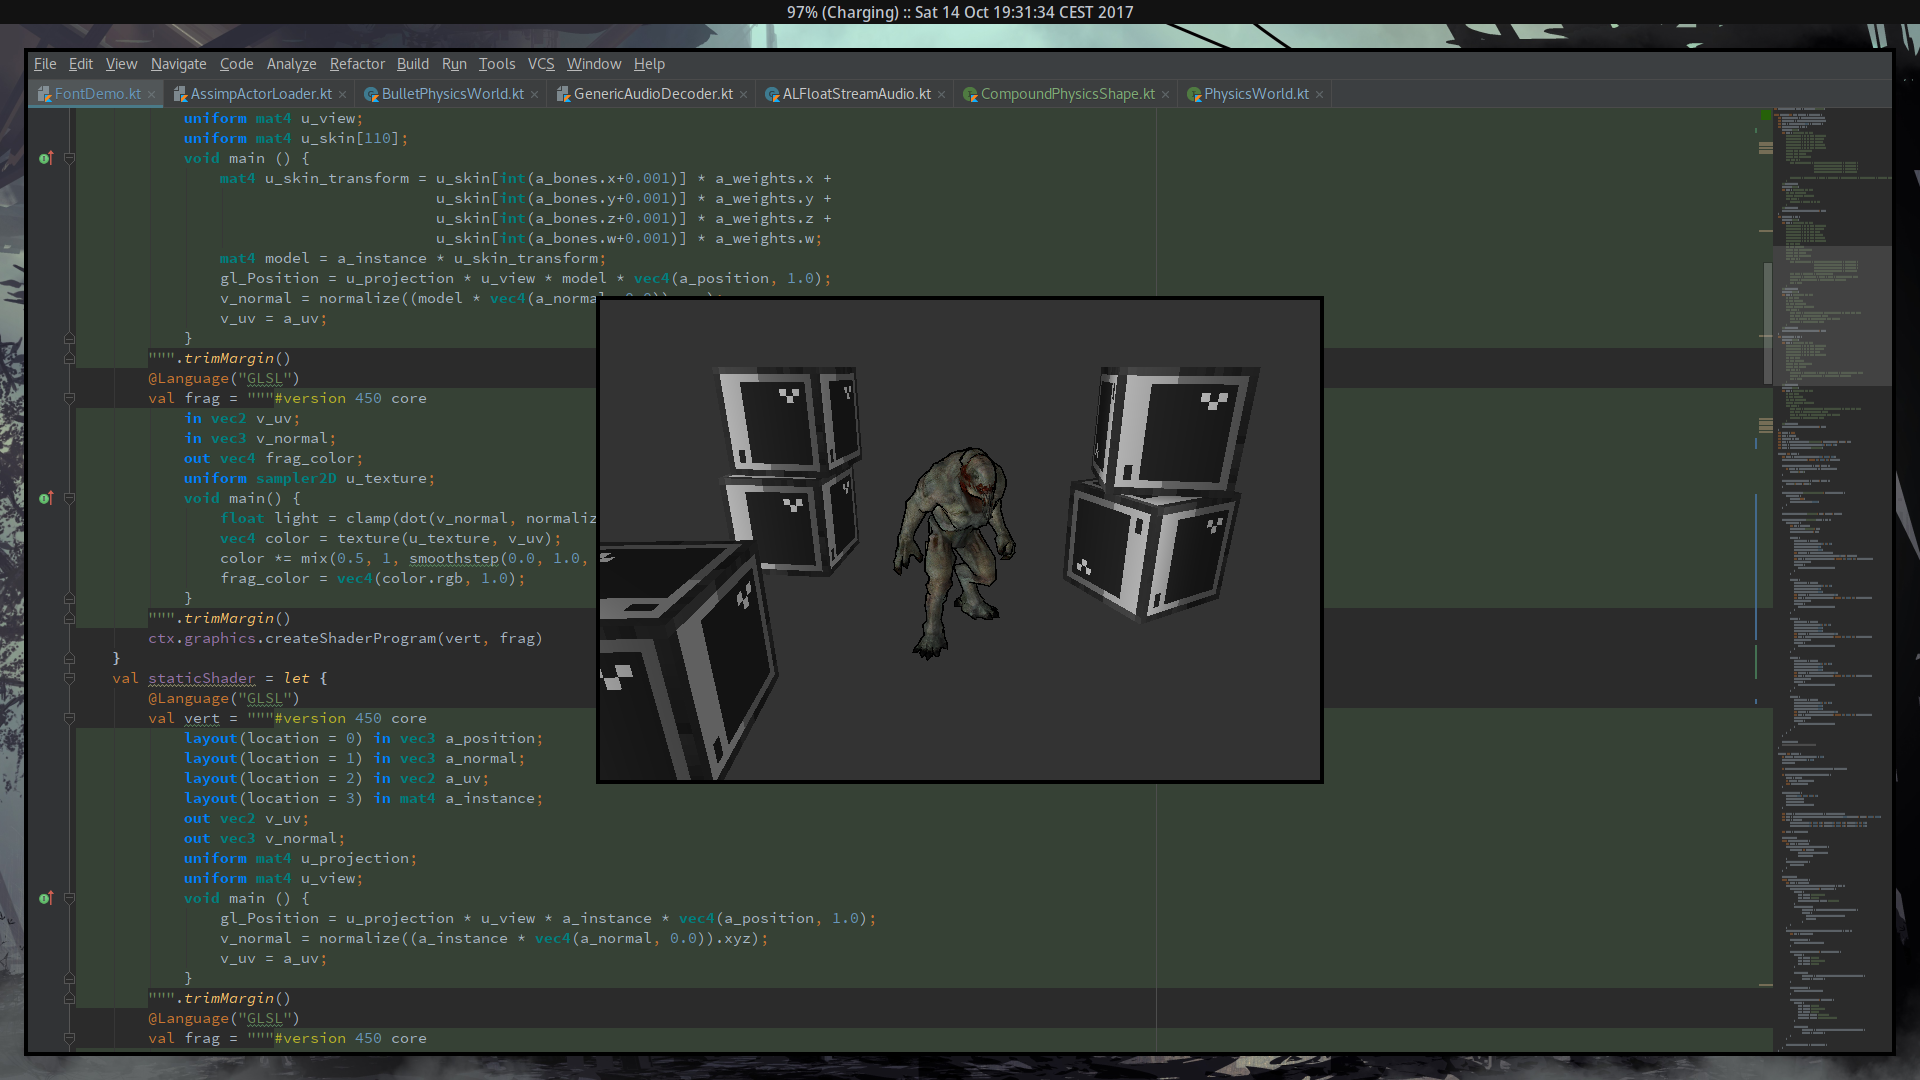
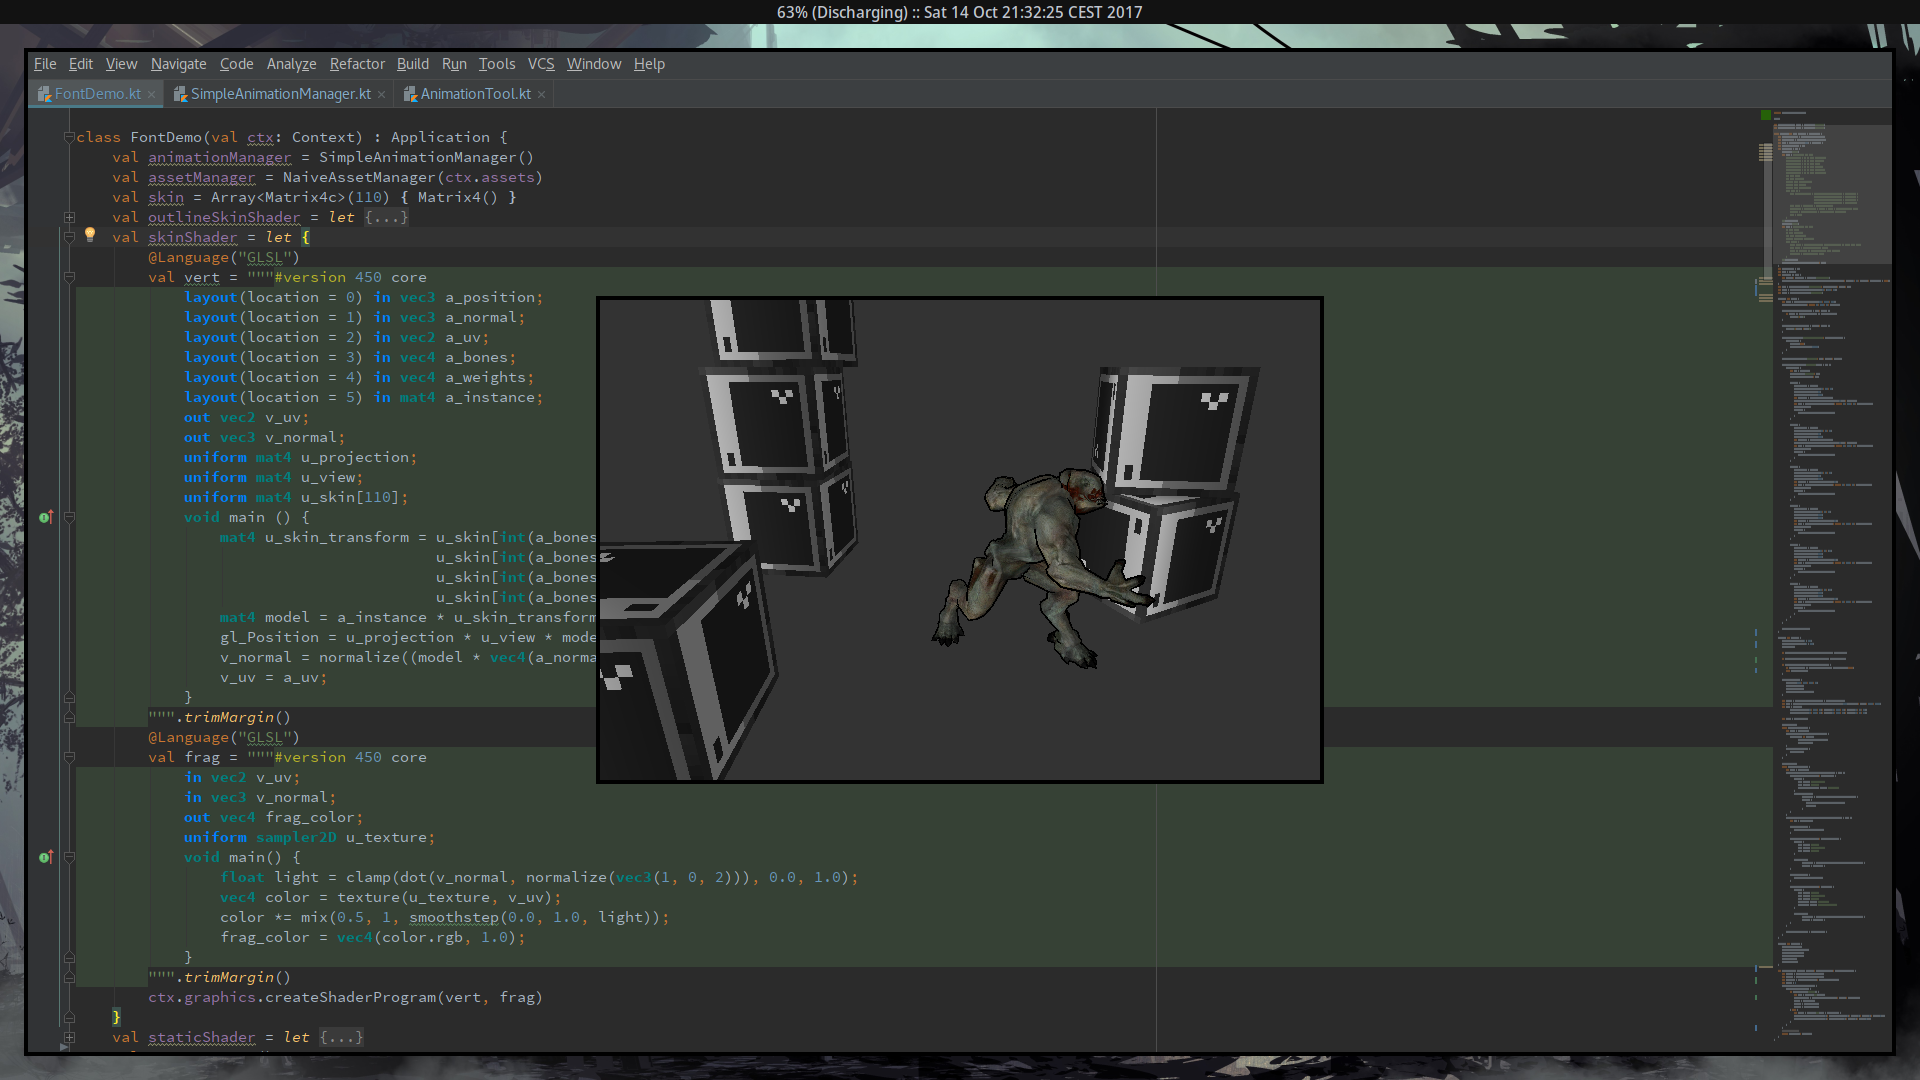
animation bug

diff --git a/modules/engine-game/src/main/kotlin/com/github/germangb/game/FontDemo.kt b/modules/engine-game/src/main/kotlin/com/github/germangb/game/FontDemo.kt
@@ -135,10 +135,10 @@ class FontDemo(val ctx: Context) : Application {
         """.trimMargin()
         ctx.graphics.createShaderProgram(vert, frag)
     }
-    var toggle = true
     val root = Actor()
     val animation by lazy {
-        animationManager.createAnimation(ActorAnimationController(root, 119f, 24, timeline("idle2.txt"), interpolate = true))
+        val (frames, timeline) = timeline("attack3.txt")
+        animationManager.createAnimation(ActorAnimationController(root, frames-1, 24, timeline, interpolate = true))
     }
     val cube = ctx.assets.loadMesh("cube.blend", setOf(POSITION, NORMAL, UV))
     val world = ctx.bullet?.createWorld(Vector3(0f, -9.8f, 0f))
@@ -254,20 +254,20 @@ class FontDemo(val ctx: Context) : Application {
             }
         }
 
-        animation.play()
-        //animation.controller.seek(24*8f)
+        animation.controller.reset()
     }
 
     override fun update() {
-        if (toggle) world?.stepSimulation(1 / 60f)
+        world?.stepSimulation(1 / 60f)
         animationManager.update(1 / 60f)
         root.update()
 
         if (KeyboardKey.KEY_SPACE.isJustPressed(ctx.input)) music?.play()
 
+        if (KeyboardKey.KEY_S.isJustPressed(ctx.input)) animation.stop()
+
         if (KeyboardKey.KEY_P.isJustPressed(ctx.input)) {
-            toggle = !toggle
-            if (toggle) animation.play()
+            if (animation.state != AnimationState.PLAYING) animation.play(false)
             else animation.pause()
         }
 
@@ -368,15 +368,17 @@ class FontDemo(val ctx: Context) : Application {
         world?.destroy()
     }
 
-    fun timeline(file: String): MutableMap<String, AnimationTimeline> {
+    fun timeline(file: String): Pair<Int, MutableMap<String, AnimationTimeline>> {
         var rotKeys = mutableListOf<RotationKey>()
         var posKeys = mutableListOf<PositionKey>()
         val timelines = mutableMapOf<String, AnimationTimeline>()
+        var frames = 0
         ctx.assets.loadGeneric(file)?.use {
             it.reader().forEachLine {
                 if (it.startsWith("node:")) {
                     val node = it.split(":").last()
                     timelines[node] = AnimationTimeline(rotKeys, posKeys, emptyList())
+                    frames = posKeys.size
                     rotKeys = mutableListOf()
                     posKeys = mutableListOf()
                 } else {
@@ -386,6 +388,7 @@ class FontDemo(val ctx: Context) : Application {
                 }
             }
         }
-        return timelines
+        //println(frames)
+        return Pair(frames, timelines)
     }
 }

diff --git a/modules/engine-core/src/main/kotlin/com/github/germangb/engine/animation/SimpleAnimationManager.kt b/modules/engine-core/src/main/kotlin/com/github/germangb/engine/animation/SimpleAnimationManager.kt
@@ -34,26 +34,54 @@ class SimpleAnimationManager : AnimationManager {
 class ManagedAnimation(val manager: SimpleAnimationManager, override val controller: AnimationController): Animation {
     /** animation state */
     var istate = AnimationState.STOPPED
+    var loop = false
+    var time = 0f
+
+    var ilistener: AnimationListener? = null
+
+    override var listener: AnimationListener?
+        get() = ilistener
+        set(value) { ilistener = value }
 
     fun update(step: Float) {
         if (istate == AnimationState.PLAYING) {
             controller.update(step)
+            time += step
+
+            if (time >= controller.duration) {
+                if (loop) {
+                    while (time > controller.duration) time -= controller.duration
+                    controller.seek(time)
+                    listener?.onStop(this)
+                    listener?.onLoop(this)
+                } else {
+                    istate = AnimationState.STOPPED
+                    time = controller.duration
+                    //controller.seek(0f)
+                    listener?.onStop(this)
+                }
+            }
         }
     }
 
     override val state get() = istate
 
-    override fun play() {
+    override fun play(loop: Boolean) {
+        this.loop = loop
         istate = AnimationState.PLAYING
+        listener?.onPlay(this)
     }
 
     override fun pause() {
         istate = AnimationState.PAUSED
+        listener?.onPause(this)
     }
 
     override fun stop() {
+        time = 0f
         istate = AnimationState.STOPPED
         controller.reset()
+        listener?.onStop(this)
     }
 
     override fun destroy() = manager.destroyAnimation(this)

diff --git a/modules/engine-core/src/main/kotlin/com/github/germangb/engine/animation/ActorAnimationController.kt b/modules/engine-core/src/main/kotlin/com/github/germangb/engine/animation/ActorAnimationController.kt
@@ -3,9 +3,13 @@ package com.github.germangb.engine.animation
 import com.github.germangb.engine.framework.Actor
 import com.github.germangb.engine.framework.Transform
 
-class ActorAnimationController(val root: Actor, val duration: Float, val fps: Int, val timeline: Map<String, AnimationTimeline>, val interpolate: Boolean = true) : AnimationController {
+class ActorAnimationController(val root: Actor, val frames: Int, val fps: Int, val timeline: Map<String, AnimationTimeline>, val interpolate: Boolean = true) : AnimationController {
     val bones = mutableMapOf<String, Transform>()
-    var time = 0f
+    var itime = 0f
+
+    override val duration = frames.toFloat() / fps
+
+    override val time get() = itime
 
     init {
         timeline.forEach { node, _ ->
@@ -21,25 +25,25 @@ class ActorAnimationController(val root: Actor, val duration: Float, val fps: In
     }
 
     fun advance(step: Float) {
-        time += step * fps
-        if (time > duration) time = 0f
+        itime += step
     }
 
     fun updateTransforms() {
         timeline.forEach { node, timeline ->
             bones[node]?.let {
-                timeline.applyTransform(maxOf(minOf(time, duration), 0f), it.local.identity(), interpolate)
+                val timeCompute = maxOf(minOf(itime * fps, frames.toFloat()), 0f)
+                timeline.applyTransform(timeCompute, it.local.identity(), interpolate)
             }
         }
     }
 
     override fun seek(time: Float) {
-        this.time = time * fps
+        this.itime = time
         updateTransforms()
     }
 
     override fun reset() {
-        time = 0f
+        itime = 0f
         updateTransforms()
     }
 

diff --git a/modules/engine-core/src/main/kotlin/com/github/germangb/engine/animation/Animation.kt b/modules/engine-core/src/main/kotlin/com/github/germangb/engine/animation/Animation.kt
@@ -15,9 +15,14 @@ interface Animation: Destroyable {
     val controller: AnimationController
 
     /**
+     * Set animation listener
+     */
+    var listener: AnimationListener?
+
+    /**
      * Play animation
      */
-    fun play()
+    fun play(loop: Boolean = false)
 
     /**
      * Pause animation
@@ -28,4 +33,29 @@ interface Animation: Destroyable {
      * Stop animation
      */
     fun stop()
+}
+
+/**
+ * Animation callbacks
+ */
+interface AnimationListener {
+    /**
+     * Called when animation is played
+     */
+    fun onPlay(animation: Animation)
+
+    /**
+     * Called when animation is paused
+     */
+    fun onPause(animation: Animation)
+
+    /**
+     * Called when animation is stopped
+     */
+    fun onStop(animation: Animation)
+
+    /**
+     * Called when animation is looped (normally after the onStop)
+     */
+    fun onLoop(animation: Animation)
 }

diff --git a/modules/engine-lwjgl/src/main/kotlin/com/github/germangb/engine/backend/lwjgl/tools/AnimationTool.kt b/modules/engine-lwjgl/src/main/kotlin/com/github/germangb/engine/backend/lwjgl/tools/AnimationTool.kt
@@ -9,13 +9,14 @@ import java.io.PrintStream
 fun BAIL(): Nothing = throw Exception("BAILING OOOOUT! some error, whatever I don't give a shit")
 
 fun main(args: Array<String>) {
-    val scene = aiImportFile(args[0], aiProcessPreset_TargetRealtime_Fast) ?: BAIL()
+    val scene = aiImportFile("attack3.md5anim", aiProcessPreset_TargetRealtime_Fast) ?: BAIL()
     val anim = AIAnimation.create(scene.mAnimations()[0])
     //println("# Animations = ${scene.mNumAnimations()}")
     //println("# Channels = ${anim.mNumChannels()}")
     //println("Duration = ${anim.mDuration()}f")
 
-    System.setOut(PrintStream(FileOutputStream("animation.txt")))
+    System.setOut(PrintStream(FileOutputStream("attack3.txt")))
+    System.err.println(anim.mDuration())
 
     // dump keyframes
     (0 until anim.mNumChannels())

diff --git a/modules/engine-core/src/main/kotlin/com/github/germangb/engine/animation/AnimationTimeline.kt b/modules/engine-core/src/main/kotlin/com/github/germangb/engine/animation/AnimationTimeline.kt
@@ -18,7 +18,7 @@ class AnimationTimeline(private val rotation: List<RotationKey>,
      * Applies transform to a matrix given a normalized duration
      */
     fun applyTransform(time: Float, out: Matrix4, interpolate: Boolean) {
-        val from = time.toInt()
+        val from = time.toInt() % rotation.size
         val to = (time.toInt() + 1) % rotation.size
         val alpha = time - from.toFloat()
         if (interpolate) {

diff --git a/modules/engine-core/src/main/kotlin/com/github/germangb/engine/animation/AnimationController.kt b/modules/engine-core/src/main/kotlin/com/github/germangb/engine/animation/AnimationController.kt
@@ -2,6 +2,16 @@ package com.github.germangb.engine.animation
 
 interface AnimationController {
     /**
+     * Animation duration in seconds
+     */
+    val duration: Float
+
+    /**
+     * Get animation itime (in seconds)
+     */
+    val time: Float
+
+    /**
      * Up
      */
     fun update(step: Float)

diff --git a/modules/engine-lwjgl/src/main/kotlin/com/github/germangb/engine/backend/lwjgl/graphics/GLEnums.kt b/modules/engine-lwjgl/src/main/kotlin/com/github/germangb/engine/backend/lwjgl/graphics/GLEnums.kt
@@ -65,6 +65,7 @@ val TextureFilter.glEnum
  */
 val MeshPrimitive.glEnum
     get() = when (this) {
+        QUADS -> GL_QUADS
         TRIANGLES -> GL_TRIANGLES
         TRIANGLE_STRIP -> GL_TRIANGLE_STRIP
         TRIANGLE_FAN -> GL_TRIANGLE_FAN

diff --git a/modules/engine-core/src/main/kotlin/com/github/germangb/engine/graphics/MeshPrimitive.kt b/modules/engine-core/src/main/kotlin/com/github/germangb/engine/graphics/MeshPrimitive.kt
@@ -17,6 +17,11 @@ enum class MeshPrimitive {
     TRIANGLE_FAN,
 
     /**
+     * I don't know if this works in opengl core
+     */
+    QUADS,
+
+    /**
      * Individual lines
      */
     LINES,

diff --git a/modules/engine-core/src/main/kotlin/com/github/germangb/engine/core/Application.kt b/modules/engine-core/src/main/kotlin/com/github/germangb/engine/core/Application.kt
@@ -7,7 +7,7 @@ interface Application : Destroyable {
     fun init()
 
     /**
-     * Called once per time
+     * Called once per itime
      */
     fun update()
 }
